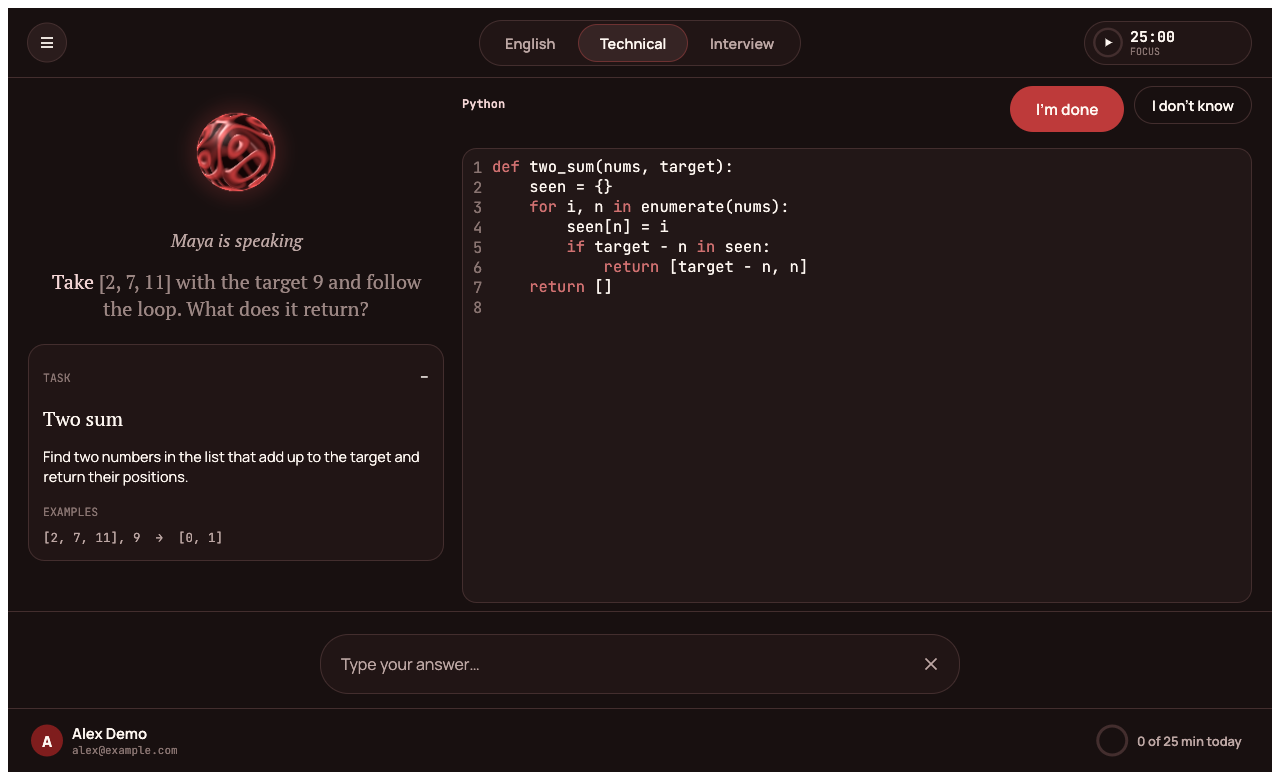
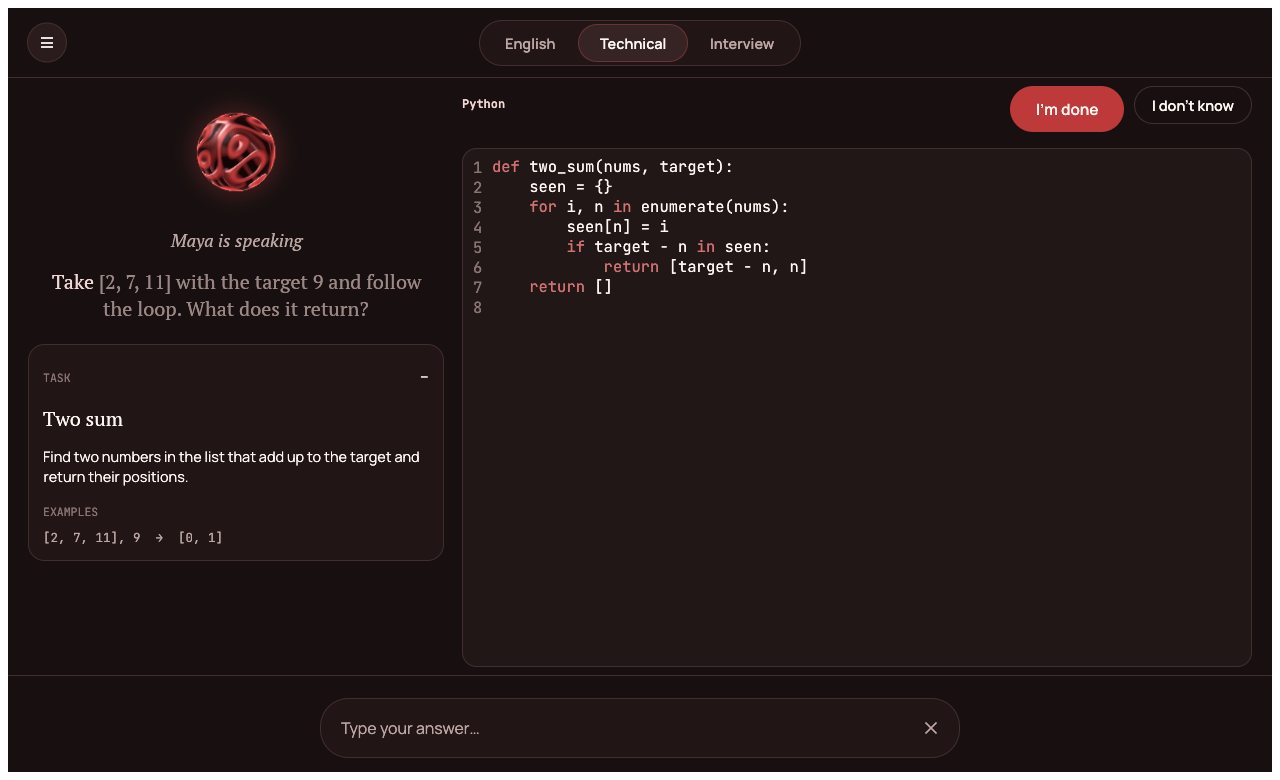
docs: the tutor leads, the tabs and the lesson as they are now

diff --git a/docs/PREP.md b/docs/PREP.md
@@ -5,13 +5,15 @@ like a person. It is not part of the interview overlay: the overlay helps during
 for it.
 
 Every part looks the same: a glowing sphere in the middle that moves with the voice, what the tutor says written under
-it word by word as it is spoken, and two buttons at the bottom: the microphone and a cross to end the call. Start typing and a text box appears. A pill of three tabs sits at the top, and the ways to practise under each tab are in the drawer at the top left.
+it word by word as it is spoken, and two buttons at the bottom: the microphone and a cross to end the call. Start typing and a text box appears. In a call there is nothing else on the screen: no timer, no panel at the bottom.
+A pill of three tabs sits at the top; each tab has one big button, because **the tutor leads** and opens whatever it
+needs. The menu at the top left lists only what you did last.
 
 | Tab | What it is for |
 |---|---|
-| **English** | A relaxed spoken conversation at your level (A2 to C1). The partner repeats your mistakes back correctly inside its own sentences, as a person would, and does not stop you to correct. *Say it in English*: say a thought in Russian, hear it in natural English in three registers, say it back and see which words went missing. Phrases from your reviews come back just before you forget them. |
-| **Technical** | **Your plan** for the vacancy, a **terms lesson** (first in your own language, then in English), **live coding**, a spoken **mock interview**, **concept checks** and **pictures**: any topic told as a short animated story. |
-| **Interview** | **Your introduction** coached until it is short, true and yours, a recruiter or hiring-manager **mock interview**, and *Prepare for a vacancy*: your CV against the vacancy, the gaps and how to answer them, and the questions it invites. |
+| **English** | **Study something together**: you bring a text, your notes, a list of new words or just a topic (paste it, or drop a text file on the window) and the tutor makes a lesson of it. It goes through everything first in your own language, then again in English with new questions, and fixes your grammar there. *Just talk* is a relaxed spoken conversation at your level, where the partner repeats your mistakes back correctly inside its own sentences. |
+| **Technical** | **The interview**, about an hour and a half, led by the tutor: it takes the topics of your plan one after another (what you know least first), for each the terms in your own language and then again in English, and after the topics a coding task that it watches. Pictures can be asked for at any moment: any topic told as a short animated story. |
+| **Interview** | **Your introduction** ("tell me about yourself") coached until it is short, true and yours. |
 
 Under every tab, **Write to the tutor** (in the menu at the top left) opens a quiet chat with the same tutor: nothing is spoken, so it works in a lecture. A
 good answer becomes a note.
@@ -35,17 +37,21 @@ that has changed since the plan was made is noticed.
 
 ## The terms lesson
 
-For each term the tutor goes through two stages:
+The tutor goes through every term of a topic twice, in two stages:
 
-1. **In your own language.** It asks what the term means. If you are right, it says so and moves on. If you are partly
-   right, it fixes the rest in plain words with the comparison. If you say you do not know, it does not hand over the
-   answer: it asks a small question that leads one step, or gives the comparison, and lets you say it.
-2. **In English**, as in the interview. It accepts imperfect English and repeats the correct form inside its own reply
-   instead of pointing at the mistake, then asks the follow-up an interviewer would ask.
+1. **In your own language**, all the terms one after another. It asks what the term means. If you are right, it says so
+   and moves on. If you are partly right, it fixes the rest in plain words with the comparison. If you say you do not
+   know, it does not hand over the answer: it asks a small question that leads one step, or gives the comparison, and
+   lets you say it.
+2. **In English**, the same terms again with new questions, the way an interviewer asks them. After each answer it
+   fixes the grammar: it says the corrected sentence once, names the rule in your language and has you say it again,
+   at most two mistakes a turn.
 
-Each half is scored 0 to 3 by the tutor; what you know is kept, and the plan's coverage moves. The lesson is a focus
-block: starting it starts the timer. The main button on the Technical tab always offers the next topic of the plan, and
-once every term is learned it becomes **live coding**.
+Each half is scored 0 to 3 by the tutor; what you know is kept, and the plan's coverage moves. A conversation is a focus
+block: starting one starts the timer (a quiet chat does not). The main button on the Technical tab starts the whole
+interview, topic after topic while there is time (about 65 minutes), then a coding task. The tutor ends each part by
+itself and the next begins; the cross ends everything. The review and the notes of every part are made in the
+background.
 
 The language you practise (English by default) is a setting; German, Spanish, French, Italian or Polish work in the same
 way. The English tab stays English, and the offline voice speaks English only.

diff --git a/README.md b/README.md
@@ -143,12 +143,14 @@ voice, and the tutor's words written under it as they are spoken.
 
 - **A plan for the vacancy by the 80/20 rule**: the few topics that hold most of the likely questions, every term in
   plain words in your language.
-- **A terms lesson**: each term first in your own language, then in English, as in the interview.
+- **A technical interview of about an hour and a half, led by the tutor**: the terms of each topic first in your own
+  language, then again in English with your grammar fixed, then a coding task.
 - **Pictures**: ask it to show something and it tells it as a short animated story with floating panels and a voice.
 - **Live coding**: it watches your code, stays quiet while you are on the right track, asks instead of telling when
   something is off, and notices a pasted block. It never gives the answer.
-- **Your introduction, mock interviews, an English conversation**, a quiet chat for lectures, notes with the 20% that
-  matters, a focus timer and a streak.
+- **Your introduction**, **study together** (bring a text, notes or new words and go through them in your language,
+  then in English), a quiet chat for lectures, notes that the tutor writes after a call, a focus timer and a calendar
+  of the days you practised.
 
 <p align="center"><img src="docs/media/prep-call.png" alt="A terms lesson in CareerTwin Prep: the sphere, the tutor's sentence with the spoken words bright, the term and its stage" width="760"></p>
 
